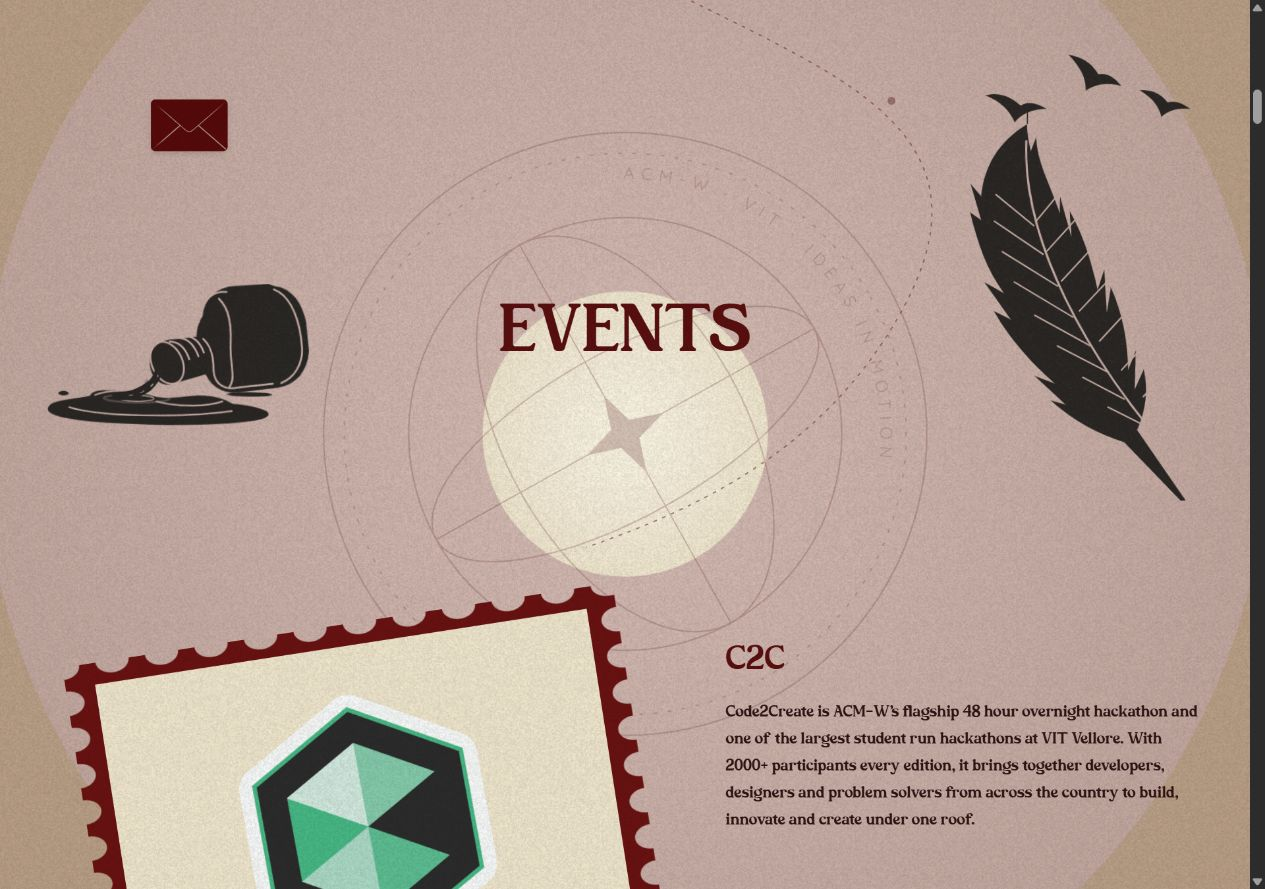
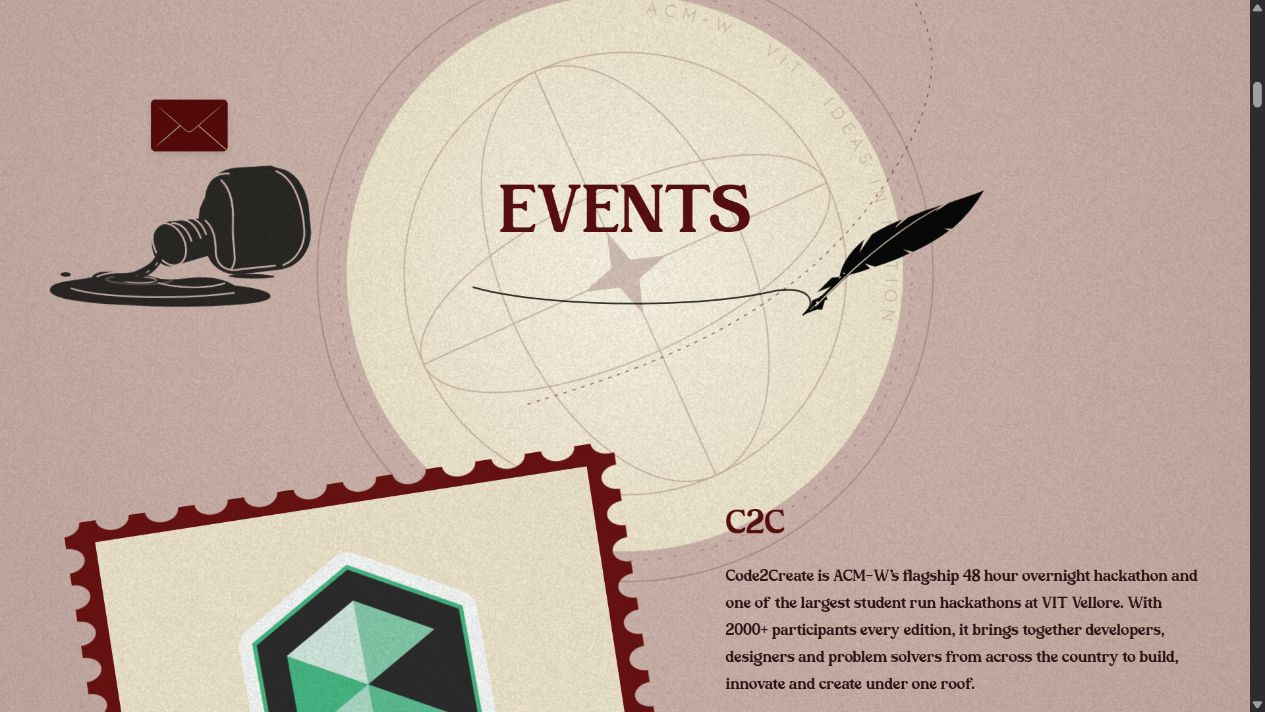
feat: let a black quill trace the Events heading flourish on scroll
Replace the bird/feather ornament with an original monochrome quill, a connected
shaft and fountain nib inspired by the supplied silhouette. Introduce an
EventsQuill scene that enters from the right, traces a thin underline and
finishing loop, then lifts into a natural diagonal pose. One reversible GSAP
playhead drives both nib position and normalized stroke reveal with slow sine
easing and scrub catch-up; scrolling upward retracts the same ink path.

Measure the actual heading and bottle surround to keep the scene clear of
letters and content. Put the flourish above the title on compact screens and
turn the pen near the screen edge. Resample path geometry only on layout/font
changes and ScrollTrigger refresh; interpolate cached points per frame without
React renders or per-frame geometry reads. Provide a static reduced-motion
composition and clean up ResizeObserver, font listeners and GSAP media contexts.

Remove the old generic feather motion branch from JourneyStationery while
preserving the ink bottle's accepted animation values and artwork. Event/About
cards, their animations and the circular transition are unchanged. Update
desktop and mobile preview screenshots.

Validation: full ESLint and TypeScript/Vite build pass (--ignore-scripts skips
network blog refresh); existing bundle-size warning remains. Browser checks at
1280x900, 800x900 and 390x844 show clear headings/copy and no horizontal overflow
[…]

diff --git a/src/components/EventsQuill.tsx b/src/components/EventsQuill.tsx
@@ -1,0 +1,141 @@
+import { useLayoutEffect, useRef } from 'react';
+import gsap from 'gsap';
+import { ScrollTrigger } from 'gsap/ScrollTrigger';
+import quill from '../assets/decor/black-feather.svg';
+import './EventsQuill.css';
+
+gsap.registerPlugin(ScrollTrigger);
+
+type Point = { x: number; y: number };
+const SAMPLE_COUNT = 240;
+
+/** Sample once on layout/refresh, never read SVG geometry during a frame. */
+function samplePath(path: SVGPathElement): Point[] {
+  const length = path.getTotalLength();
+  return Array.from({ length: SAMPLE_COUNT + 1 }, (_, index) => {
+    const point = path.getPointAtLength(length * index / SAMPLE_COUNT);
+    return { x: point.x, y: point.y };
+  });
+}
+
+function pointAt(points: Point[], progress: number): Point {
+  const position = Math.max(0, Math.min(1, progress)) * SAMPLE_COUNT;
+  const index = Math.min(SAMPLE_COUNT - 1, Math.floor(position));
+  const blend = position - index;
+  return { x: points[index].x + (points[index + 1].x - points[index].x) * blend,
+    y: points[index].y + (points[index + 1].y - points[index].y) * blend };
+}
+
+/** One scrubbed playhead owns the nib position and the exact ink endpoint. */
+export default function EventsQuill() {
+  const root = useRef<SVGSVGElement>(null);
+  const approachRef = useRef<SVGPathElement>(null);
+  const strokeRef = useRef<SVGPathElement>(null);
+  const penRef = useRef<SVGGElement>(null);
+
+  useLayoutEffect(() => {
+    const svg = root.current;
+    const approach = approachRef.current;
+    const stroke = strokeRef.current;
+    const pen = penRef.current;
+    const journey = svg?.closest('.chapter-journey');
+    const events = journey?.querySelector<HTMLElement>('#events');
+    const heading = events?.querySelector<HTMLElement>('h1');
+    const bottle = journey?.querySelector<HTMLElement>('[data-stationery="ink"]');
+    if (!svg || !approach || !stroke || !pen || !journey || !events || !heading) return;
+
+    const media = gsap.matchMedia();
+    media.add({ moving: '(prefers-reduced-motion: no-preference)', still: '(prefers-reduced-motion: reduce)', compact: '(max-width: 48rem)' }, context => {
+      const moving = Boolean(context.conditions?.moving);
+      const compact = Boolean(context.conditions?.compact);
+      const playhead = { entry: 0, ink: 0, lift: 0 };
+      let entryPoints: Point[] = [];
+      let inkPoints: Point[] = [];
+      let scale = .35;
+      let rest: Point = { x: 0, y: 0 };
+      let sceneWidth = 0;
+      let titleRight = 0;
+      const render = () => {
+        if (!entryPoints.length || !inkPoints.length) return;
+        const writing = playhead.ink > 0 || playhead.entry >= 1;
+        let point = pointAt(writing ? inkPoints : entryPoints, writing ? playhead.ink : playhead.entry);
+        const lift = playhead.lift;
+        point = { x: point.x + (rest.x - point.x) * lift, y: point.y + (rest.y - point.y) * lift };
+        // Turn the quill upright as the nib approaches a narrow screen edge.
+        const turn = gsap.utils.clamp(0, 1, compact
+          ? (point.x - (sceneWidth - 170)) / 100
+          : (point.x - (titleRight - 80)) / 100);
+        const edgeTurn = .5 - Math.cos(turn * Math.PI) / 2;
+        const writingAngle = 77 + Math.sin(playhead.ink * Math.PI * 2) * 3 - edgeTurn * (compact ? 102 : 48);
+        const angle = writingAngle + ((compact ? -25 : -18) - writingAngle) * lift;
+        // The artwork's nib is exactly (18, 542); image offset makes it local (0, 0).
+        pen.setAttribute('transform', `translate(${point.x} ${point.y}) rotate(${angle}) scale(${scale})`);
+        pen.style.opacity = moving ? String(Math.min(1, playhead.entry * 3)) : '1';
+        stroke.setAttribute('stroke-dashoffset', String(moving ? 1 - playhead.ink : 0));
+      };
+      const measure = () => {
+        const frame = svg.getBoundingClientRect();
+        const title = heading.getBoundingClientRect();
+        const range = document.createRange();
+        range.selectNodeContents(heading);
+        const text = range.getBoundingClientRect();
+        titleRight = text.right - frame.left;
+        const bottleRight = bottle ? bottle.getBoundingClientRect().right - frame.left : 0;
+        const width = frame.width;
+        sceneWidth = width;
+        const height = frame.height;
+        scale = compact ? Math.min(.18, width / 2200) : Math.min(.4, Math.max(.28, width / 3300));
+        const left = compact ? Math.max(20, text.left - frame.left - 15)
+          : Math.max(text.left - frame.left - 26, bottleRight + 30);
+        const right = Math.min(text.right - frame.left, width - (compact ? 90 : 165));
+        // Above the title on narrow screens keeps the blade and bottle clear.
+        const y = compact ? title.top - frame.top - 46 : title.bottom - frame.top + 27;
+        const approachSide = compact ? -1 : 1;
+        svg.setAttribute('viewBox', `0 0 ${width} ${height}`);
+        approach.setAttribute('d', `M${width + 100},${y + approachSide * 48} C${width * .8},${y + approachSide * 90} ${left + 70},${y + approachSide * 75} ${left},${y}`);
+        stroke.setAttribute('d', `M${left},${y} C${left + 65},${y + 19} ${right - 65},${y + 23} ${right + 18},${y + 5} C${right + 77},${y - 8} ${right + 68},${y + 35} ${right + 29},${y + 35} C${right + 3},${y + 35} ${right - 4},${y + 19} ${right + 14},${y + 17}`);
+        entryPoints = samplePath(approach);
+        inkPoints = samplePath(stroke);
+        rest = { x: compact ? width - 35 : right + 65, y: y + 14 };
+        if (!moving) Object.assign(playhead, { entry: 1, ink: 1, lift: 1 });
+        render();
+      };
+      measure();
+      const observer = new ResizeObserver(measure);
+      observer.observe(journey);
+      let live = true;
+      void document.fonts.ready.then(() => { if (live) measure(); });
+      document.fonts.addEventListener('loadingdone', measure);
+      ScrollTrigger.addEventListener('refreshInit', measure);
+      if (moving) {
+        gsap.timeline({
+          onUpdate: render,
+          scrollTrigger: {
+            trigger: events, start: 'top 95%', end: 'top -30%', scrub: 1.6,
+            invalidateOnRefresh: true,
+            onToggle: self => { pen.style.willChange = self.isActive ? 'transform' : 'auto'; },
+          },
+        })
+          .to(playhead, { entry: 1, duration: .25, ease: 'sine.inOut' })
+          .to(playhead, { ink: 1, duration: .62, ease: 'sine.inOut' })
+          .to(playhead, { lift: 1, duration: .23, ease: 'sine.inOut' });
+      }
+      return () => {
+        live = false;
+        observer.disconnect();
+        document.fonts.removeEventListener('loadingdone', measure);
+        ScrollTrigger.removeEventListener('refreshInit', measure);
+        pen.style.removeProperty('will-change');
+      };
+    }, svg);
+    return () => media.revert();
+  }, []);
+
+  return <svg ref={root} className="events-quill-scene" aria-hidden="true" focusable="false" preserveAspectRatio="none">
+    <path ref={approachRef} fill="none" stroke="none"/>
+    <path ref={strokeRef} className="events-quill-stroke" pathLength="1" strokeDasharray="1" strokeDashoffset="1"/>
+    <g ref={penRef} className="events-quill-pen">
+      <image href={quill} x="-18" y="-542" width="320" height="560"/>
+    </g>
+  </svg>;
+}

diff --git a/src/components/JourneyStationery.tsx b/src/components/JourneyStationery.tsx
@@ -1,18 +1,14 @@
 import { useLayoutEffect, useRef } from 'react';
 import gsap from 'gsap';
 import { ScrollTrigger } from 'gsap/ScrollTrigger';
-import featherSilhouette from '../assets/decor/black-feather.svg';
 import InkBottleArtwork from './InkBottleArtwork';
 import { INK_FLOW_FULL, INK_FLOW_REST } from './inkFlow';
 
 gsap.registerPlugin(ScrollTrigger);
 
-type StationeryKind = 'quill' | 'ink';
-
-/** Placement, scroll travel, ambient float and liquid each own their transforms. */
-export default function JourneyStationery({ kind }: { kind: StationeryKind }) {
+/** Ink placement, scroll travel, ambient float and liquid own separate transforms. */
+export default function JourneyStationery() {
   const root = useRef<HTMLDivElement>(null);
-  const feather = kind === 'quill';
 
   useLayoutEffect(() => {
     const stage = root.current;
@@ -25,9 +21,7 @@ export default function JourneyStationery({ kind }: { kind: StationeryKind }) {
       const compact = Boolean(context.conditions.compact);
       const select = gsap.utils.selector(stage);
       // Measure the untransformed stage so refreshes never accumulate travel.
-      const outsideMargin = () => feather
-        ? (stage.offsetParent?.clientWidth ?? innerWidth) - stage.offsetLeft + 32
-        : -(stage.offsetLeft + stage.offsetWidth + 32);
+      const outsideMargin = () => -(stage.offsetLeft + stage.offsetWidth + 32);
       const travel = gsap.timeline({
         scrollTrigger: {
           trigger: stage, start: 'top bottom', end: 'bottom top', scrub: 1.35,
@@ -36,36 +30,34 @@ export default function JourneyStationery({ kind }: { kind: StationeryKind }) {
         },
       });
       travel.fromTo(track, { x: outsideMargin }, { x: 0, duration: .58, ease: 'sine.inOut' }, 0)
-        .fromTo(track, { y: compact ? 40 : 76, rotation: feather ? -8 : 5 }, {
-          y: compact ? -8 : -32, rotation: feather ? 2 : -2, duration: 1, ease: 'none',
+        .fromTo(track, { y: compact ? 40 : 76, rotation: 5 }, {
+          y: compact ? -8 : -32, rotation: -2, duration: 1, ease: 'none',
         }, 0);
 
       const floatLoop = gsap.timeline({ paused: true, repeat: -1, defaults: { ease: 'sine.inOut' } })
-        .to(float, { x: feather ? 3 : -2, y: -5, rotation: feather ? .8 : -.5, duration: feather ? 3.8 : 4.2 })
-        .to(float, { x: feather ? -2 : 2, y: 3, rotation: feather ? -.6 : .4, duration: 4.4 })
+        .to(float, { x: -2, y: -5, rotation: -.5, duration: 4.2 })
+        .to(float, { x: 2, y: 3, rotation: .4, duration: 4.4 })
         .to(float, { x: 0, y: 0, rotation: 0, duration: 3.6 });
       const loops: gsap.core.Animation[] = [floatLoop];
-      if (!feather) {
-        loops.push(gsap.timeline({ paused: true, repeat: -1, defaults: { ease: 'sine.inOut' } })
-          .to(select('[data-ink-stream]'), { attr: { d: INK_FLOW_FULL }, duration: 2.2 })
-          .to(select('[data-ink-stream]'), { attr: { d: INK_FLOW_REST }, duration: 2.6 }));
-        loops.push(gsap.timeline({ paused: true, repeat: -1, repeatDelay: .7 })
-          .fromTo(select('[data-ink-drop]'), { x: 0, y: 0, opacity: 0 }, { opacity: .85, duration: .25 })
-          .to(select('[data-ink-drop]'), { x: -12, y: 17, duration: .85, ease: 'power1.in' }, 0)
-          .to(select('[data-ink-drop]'), { opacity: 0, duration: .3 }, .55));
-        loops.push(gsap.fromTo(select('[data-ink-current]'), { attr: { 'stroke-dashoffset': 0 } }, {
-          attr: { 'stroke-dashoffset': -16 }, duration: 1.8, repeat: -1, ease: 'none', paused: true,
-        }));
-        stage.querySelectorAll<SVGEllipseElement>('[data-ink-ripple]').forEach((ripple, index) => {
-          const rippleLoop = gsap.timeline({ paused: true, repeat: -1 })
-            .fromTo(ripple, { scaleX: .35, scaleY: .6, opacity: 0, svgOrigin: '137 188' },
-              { scaleX: 1.6, scaleY: 1.25, duration: 3.2, ease: 'sine.out' })
-            .to(ripple, { opacity: .9, duration: .6 }, 0)
-            .to(ripple, { opacity: 0, duration: 1.6 }, 1.6);
-          rippleLoop.progress(index * .5).pause();
-          loops.push(rippleLoop);
-        });
-      }
+      loops.push(gsap.timeline({ paused: true, repeat: -1, defaults: { ease: 'sine.inOut' } })
+        .to(select('[data-ink-stream]'), { attr: { d: INK_FLOW_FULL }, duration: 2.2 })
+        .to(select('[data-ink-stream]'), { attr: { d: INK_FLOW_REST }, duration: 2.6 }));
+      loops.push(gsap.timeline({ paused: true, repeat: -1, repeatDelay: .7 })
+        .fromTo(select('[data-ink-drop]'), { x: 0, y: 0, opacity: 0 }, { opacity: .85, duration: .25 })
+        .to(select('[data-ink-drop]'), { x: -12, y: 17, duration: .85, ease: 'power1.in' }, 0)
+        .to(select('[data-ink-drop]'), { opacity: 0, duration: .3 }, .55));
+      loops.push(gsap.fromTo(select('[data-ink-current]'), { attr: { 'stroke-dashoffset': 0 } }, {
+        attr: { 'stroke-dashoffset': -16 }, duration: 1.8, repeat: -1, ease: 'none', paused: true,
+      }));
+      stage.querySelectorAll<SVGEllipseElement>('[data-ink-ripple]').forEach((ripple, index) => {
+        const rippleLoop = gsap.timeline({ paused: true, repeat: -1 })
+          .fromTo(ripple, { scaleX: .35, scaleY: .6, opacity: 0, svgOrigin: '137 188' },
+            { scaleX: 1.6, scaleY: 1.25, duration: 3.2, ease: 'sine.out' })
+          .to(ripple, { opacity: .9, duration: .6 }, 0)
+          .to(ripple, { opacity: 0, duration: 1.6 }, 1.6);
+        rippleLoop.progress(index * .5).pause();
+        loops.push(rippleLoop);
+      });
 
       let inView = false;
       const syncActivity = () => {
@@ -88,14 +80,13 @@ export default function JourneyStationery({ kind }: { kind: StationeryKind }) {
       };
     }, stage);
     return () => media.revert();
-  }, [feather]);
+  }, []);
 
-  return <div ref={root} className={`journey-asset journey-asset--${kind}`} data-stationery={kind}>
+  return <div ref={root} className="journey-asset journey-asset--ink" data-stationery="ink">
     <div className="stationery-scroll" data-stationery-scroll>
       <div className="stationery-float" data-stationery-float>
         <div className="stationery-artwork">
-          {feather ? <img src={featherSilhouette} alt="" width={320} height={560}
-            decoding="async" draggable={false}/> : <InkBottleArtwork/>}
+          <InkBottleArtwork/>
         </div>
       </div>
     </div>

diff --git a/src/components/ChapterJourney.css b/src/components/ChapterJourney.css
@@ -30,8 +30,7 @@
 .journey-asset { position: absolute; aspect-ratio: 1; opacity: .2; }
 .journey-asset--spark { top: 5%; left: 7%; width: clamp(70px, 10vw, 150px); opacity: .28; }
 /* Silhouettes frame the centered title, ending before the event descriptions. */
-.journey-asset--quill,.journey-asset--ink { opacity: .94; }
-.journey-asset--quill { top: calc(var(--journey-events-y) - 194px); right: 2%; width: clamp(220px, 21vw, 290px); aspect-ratio: 320 / 560; }
+.journey-asset--ink { opacity: .94; }
 .journey-asset--ink { top: calc(var(--journey-events-y) + 32px); left: 3%; width: clamp(220px, 22vw, 300px); aspect-ratio: 380 / 240; }
 .journey-asset--orbit { top: 60%; right: -10%; width: clamp(260px, 40vw, 620px); opacity: .15; }
 .journey-asset--letter { top: 76%; left: 3%; width: clamp(160px, 23vw, 340px); opacity: .19; }
@@ -45,7 +44,6 @@
 .chapter-trail-seal svg { width: 100%; height: 100%; stroke: currentColor; stroke-width: 1; opacity: .55; }
 @media(max-width:48rem) {
   .journey-portal { width: 112vw; opacity: .19; }
-  .journey-asset--quill { top: calc(var(--journey-events-y) + 168px); right: 1%; width: clamp(140px, 26vw, 190px); }
   .journey-asset--ink { top: calc(var(--journey-events-y) + 150px); left: 4%; width: clamp(125px, 32vw, 170px); }
   .journey-asset--orbit { right: -35%; opacity: .12; }
   .journey-asset--letter { left: -19%; opacity: .14; }

diff --git a/src/components/ChapterJourney.tsx b/src/components/ChapterJourney.tsx
@@ -2,6 +2,7 @@ import { useId, useLayoutEffect, useRef, type ReactNode } from 'react';
 import gsap from 'gsap';
 import { ScrollTrigger } from 'gsap/ScrollTrigger';
 import JourneyStationery from './JourneyStationery';
+import EventsQuill from './EventsQuill';
 import './ChapterJourney.css';
 
 gsap.registerPlugin(ScrollTrigger);
@@ -104,8 +105,8 @@ export default function ChapterJourney({ children }: { children: ReactNode }) {
       </svg>
       <div className="journey-portal"><div className="journey-portal-art"><Orbit/></div></div>
       <div className="journey-asset journey-asset--spark" data-journey-drift=".7"><Spark/></div>
-      <JourneyStationery kind="quill"/>
-      <JourneyStationery kind="ink"/>
+      <EventsQuill/>
+      <JourneyStationery/>
       <div className="journey-asset journey-asset--orbit" data-journey-drift=".65"><Orbit label="CREATE · CONNECT · EXPLORE"/></div>
       <div className="journey-asset journey-asset--letter" data-journey-drift="1.3"><SealedLetter/></div>
       <div className="journey-asset journey-asset--send" data-journey-drift="1.8"><Plane/></div>

diff --git a/src/components/EventsQuill.css b/src/components/EventsQuill.css
@@ -1,0 +1,6 @@
+.events-quill-scene { position: absolute; inset: 0; width: 100%; height: 100%; overflow: visible; pointer-events: none; }
+.events-quill-stroke { fill: none; stroke: #080808; stroke-width: 1.7; stroke-linecap: round; stroke-linejoin: round; opacity: .82; }
+.events-quill-pen { opacity: 0; }
+@media (max-width: 48rem) {
+  .events-quill-stroke { stroke-width: 1.35; }
+}
